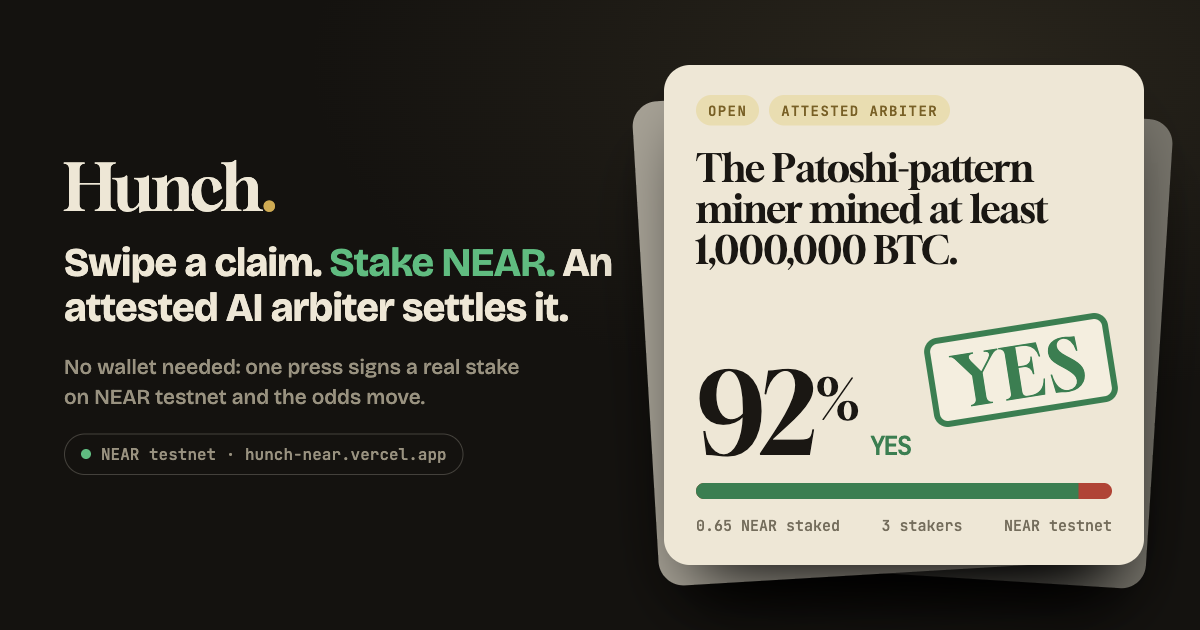
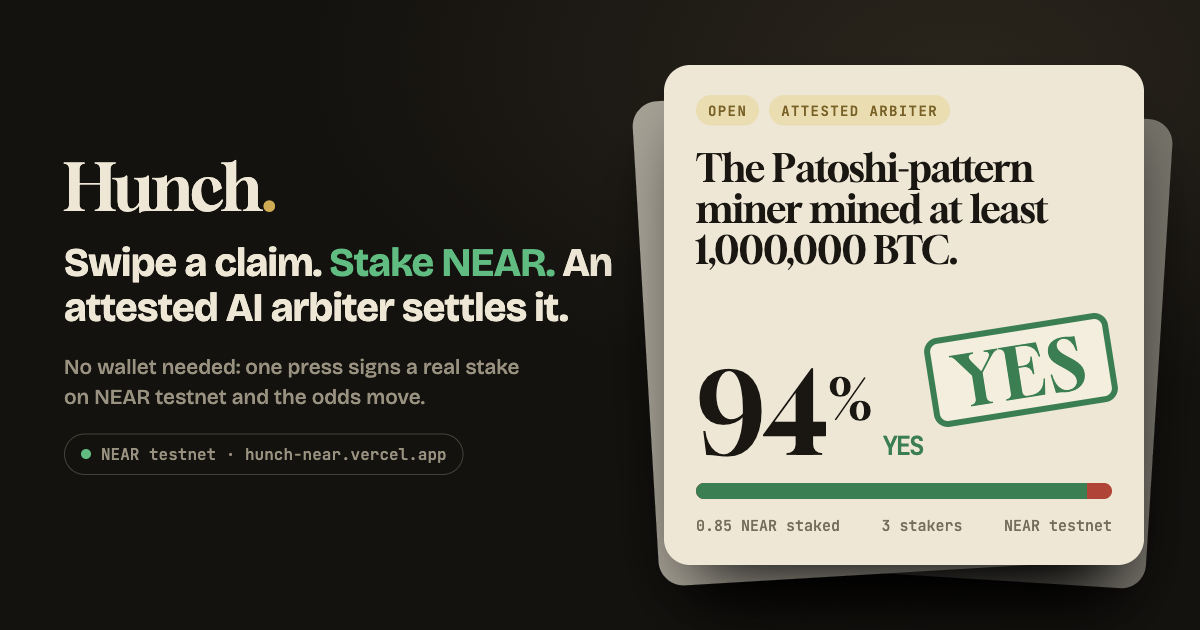
Open cards show what a 0.05 NEAR swipe pays, a settled claim is the second card, pitch line at full contrast, snapshot and link card refreshed

Changed region(s): [[0.6167, 0.573, 0.74, 0.7238], [0.7092, 0.6937, 0.7708, 0.7238], [0.8942, 0.754, 0.925, 0.7841]]

diff --git a/web/src/style.css b/web/src/style.css
@@ -130,7 +130,10 @@ body[data-page="deck"] #app { height: 100vh; height: 100dvh; overflow: hidden; }
 .lg-no { color: var(--no); }
 
 .card-note { margin: 18px 0 0; padding: 11px 13px; border: 1px dashed var(--brass-line); border-radius: 12px; background: rgba(236, 220, 171, 0.45); color: #4a3a12; font: 500 13px/1.35 var(--font-ui); }
-.card-note-open { border-color: transparent; background: none; padding: 0; color: var(--muted); font-size: 12px; letter-spacing: 0.02em; }
+.card-note-open { border-color: transparent; background: none; padding: 0; color: var(--body); font-size: 13px; letter-spacing: 0.01em; }
+.card-note-open b { color: var(--ink); font-weight: 700; }
+.pay-yes { color: var(--yes); font-weight: 700; }
+.pay-no { color: var(--no); font-weight: 700; }
 .card-foot { display: grid; grid-template-columns: repeat(3, 1fr); gap: 8px; margin: 16px 0 0; padding-top: 14px; border-top: 1px solid var(--line); }
 .card-foot dt { color: var(--muted); font: 500 10px var(--font-num); letter-spacing: 0.1em; text-transform: uppercase; }
 .card-foot dd { margin: 3px 0 0; font: 500 14px var(--font-num); font-variant-numeric: tabular-nums; overflow-wrap: anywhere; }
@@ -456,11 +459,11 @@ body[data-page="deck"] #app { height: 100vh; height: 100dvh; overflow: hidden; }
 .verdict-links a { color: var(--brass); font: 600 13px var(--font-ui); text-underline-offset: 3px; }
 .verdict-banner + .trust-strip { margin-top: 12px; }
 
-.pitch { margin: 10px auto 12px; max-width: 480px; text-align: center; color: var(--felt-mute); font: 500 13px/1.35 var(--font-ui); letter-spacing: 0.01em; }
-@media (min-width: 900px) { .pitch { margin: 12px auto 16px; font-size: 15px; } }
+.pitch { margin: 10px auto 12px; max-width: 480px; text-align: center; color: var(--felt-text); font: 600 15px/1.3 var(--font-ui); letter-spacing: 0; }
+@media (min-width: 900px) { .pitch { margin: 12px auto 16px; font-size: 18px; } }
 .receipt-claim { margin: -8px 0 12px; color: var(--body); font-size: 14px; line-height: 1.4; display: -webkit-box; -webkit-line-clamp: 2; -webkit-box-orient: vertical; overflow: hidden; }
 .pitch, .card-note { text-wrap: balance; }
-@media (max-width: 430px) { .pitch { font-size: 12.5px; padding: 0 4px; } }
+@media (max-width: 430px) { .pitch { font-size: 14px; padding: 0 4px; } }
 
 /* ---- Round 3: the odds mover, positions drawer, share ---- */
 .card { transition: transform 0.55s cubic-bezier(0.3, 1.3, 0.5, 1), filter 0.45s var(--ease); }

diff --git a/scripts/og/og.html b/scripts/og/og.html
@@ -19,7 +19,7 @@ body{width:1200px;height:630px;overflow:hidden;background-color:#14120f;backgrou
 .top span{padding:6px 12px;border-radius:999px;background:#ecdcab}
 .claim{margin-top:22px;font:400 38px/1.08 Gloock,serif;letter-spacing:-.012em}
 .pct{margin-top:auto;font:400 112px/1 Gloock,serif;letter-spacing:-.02em}.pct sup{font-size:56px;vertical-align:top;position:relative;top:14px}.pct span{font:600 26px "JetBrains Mono",monospace;margin-left:12px;color:#12804c}
-.bar{height:16px;border-radius:16px;background:#bf3a2e;overflow:hidden;margin-top:14px}.bar i{display:block;height:100%;width:92%;background:#12804c}
+.bar{height:16px;border-radius:16px;background:#bf3a2e;overflow:hidden;margin-top:14px}.bar i{display:block;height:100%;width:94%;background:#12804c}
 .foot{display:flex;justify-content:space-between;margin-top:16px;font:500 15px "JetBrains Mono",monospace;color:#766d5a}
 .stamp{position:absolute;bottom:150px;right:30px;transform:rotate(-9deg);padding:6px 20px 2px;border:6px solid #12804c;border-radius:14px;color:#12804c;font:400 70px/1 Gloock,serif;letter-spacing:.06em;background:rgba(247,241,226,.7)}
 </style></head><body>
@@ -34,9 +34,9 @@ body{width:1200px;height:630px;overflow:hidden;background-color:#14120f;backgrou
 <div class="card">
 <div class="top"><span>Open</span><span>Attested arbiter</span></div>
 <div class="claim">The Patoshi-pattern miner mined at least 1,000,000 BTC.</div>
-<div class="pct">92<sup>%</sup><span>YES</span></div>
+<div class="pct">94<sup>%</sup><span>YES</span></div>
 <div class="bar"><i></i></div>
-<div class="foot"><span>0.65 NEAR staked</span><span>3 stakers</span><span>NEAR testnet</span></div>
+<div class="foot"><span>0.85 NEAR staked</span><span>3 stakers</span><span>NEAR testnet</span></div>
 <div class="stamp">YES</div>
 </div></div>
 </body></html>

diff --git a/web/src/deck.js b/web/src/deck.js
@@ -57,6 +57,15 @@ function noteFor(fact) {
   return 'Void: every stake is refundable';
 }
 
+/** What a swipe pays at today's pools, so the stakes are visible before the visitor commits. */
+function payLine(fact) {
+  const stake = '0.05';
+  const raw = toYocto(stake);
+  const yes = previewStake(fact, 'Yes', raw).payout;
+  const no = previewStake(fact, 'No', raw).payout;
+  return `<b>${stake} NEAR</b> pays <span class="pay-yes">${escapeHTML(nearAmount(yes))} on YES</span> · <span class="pay-no">${escapeHTML(nearAmount(no))} on NO</span>${desk ? '. Sponsored on testnet.' : ''}`;
+}
+
 function cardMarkup(fact, depth, position, total) {
   const price = priceTexts(fact);
   const close = Number(fact.resolve_after);
@@ -79,7 +88,7 @@ function cardMarkup(fact, depth, position, total) {
       ${barMarkup(fact)}
       <p class="legend"><span class="lg-yes">YES ${price.yesCents}</span><span class="lg-no">NO ${price.noCents}</span></p>
     </div>
-    ${note ? `<p class="card-note">${escapeHTML(note)}</p>` : `<p class="card-note card-note-open">Swipe right for YES, left for NO${desk ? '. 0.05 NEAR per swipe, sponsored on testnet.' : ''}</p>`}
+    ${note ? `<p class="card-note">${escapeHTML(note)}</p>` : `<p class="card-note card-note-open">${payLine(fact)}</p>`}
     <dl class="card-foot">
       <div><dt>Staked</dt><dd>${escapeHTML(nearAmount(volumeOf(fact)))}</dd></div>
       <div><dt>${close > Date.now() ? 'Closes' : 'Ended'}</dt><dd>${escapeHTML(formatShortDay(close))}</dd></div>

diff --git a/web/src/claims.js b/web/src/claims.js
@@ -22,13 +22,17 @@ const STAGE_ORDER = { open: 0, awaiting: 1, resolved: 2, void: 3 };
 
 /** Deck order: markets that take stakes first (soonest close first), then the rest by volume. */
 export function deckOrder(facts, nowMs = Date.now()) {
-  return [...facts].sort((a, b) => {
+  const sorted = [...facts].sort((a, b) => {
     const [sa, sb] = [stageOf(a, nowMs).key, stageOf(b, nowMs).key];
     if (sa !== sb) return STAGE_ORDER[sa] - STAGE_ORDER[sb];
     if (sa === 'open') return Number(a.resolve_after) - Number(b.resolve_after);
     const diff = volumeOf(b) - volumeOf(a);
     return diff > 0n ? 1 : diff < 0n ? -1 : 0;
   });
+  // A settled claim is the second card: the visitor meets the arbiter's ruling inside the first swipes.
+  const settled = sorted.findIndex((fact) => stageOf(fact, nowMs).key === 'resolved');
+  if (sorted.length > 2 && settled > 1 && stageOf(sorted[0], nowMs).key === 'open') sorted.splice(1, 0, sorted.splice(settled, 1)[0]);
+  return sorted;
 }
 
 const date = (ms, opts) => new Date(Number(ms)).toLocaleString('en-GB', { ...opts, timeZone: 'UTC' });

diff --git a/web/src/claims.test.js b/web/src/claims.test.js
@@ -18,7 +18,7 @@ test('deck puts stakeable markets first, soonest close first', () => {
     fact('soon', { resolve_after: NOW + 10 }),
     fact('done', { status: 'Resolved', outcome: 'Yes' }),
   ];
-  assert.deepEqual(deckOrder(facts, NOW).map((f) => f.id), ['soon', 'late', 'awaiting', 'done']);
+  assert.deepEqual(deckOrder(facts, NOW).map((f) => f.id), ['soon', 'done', 'late', 'awaiting']);
 });
 
 test('price text shows a dash until someone stakes', () => {
